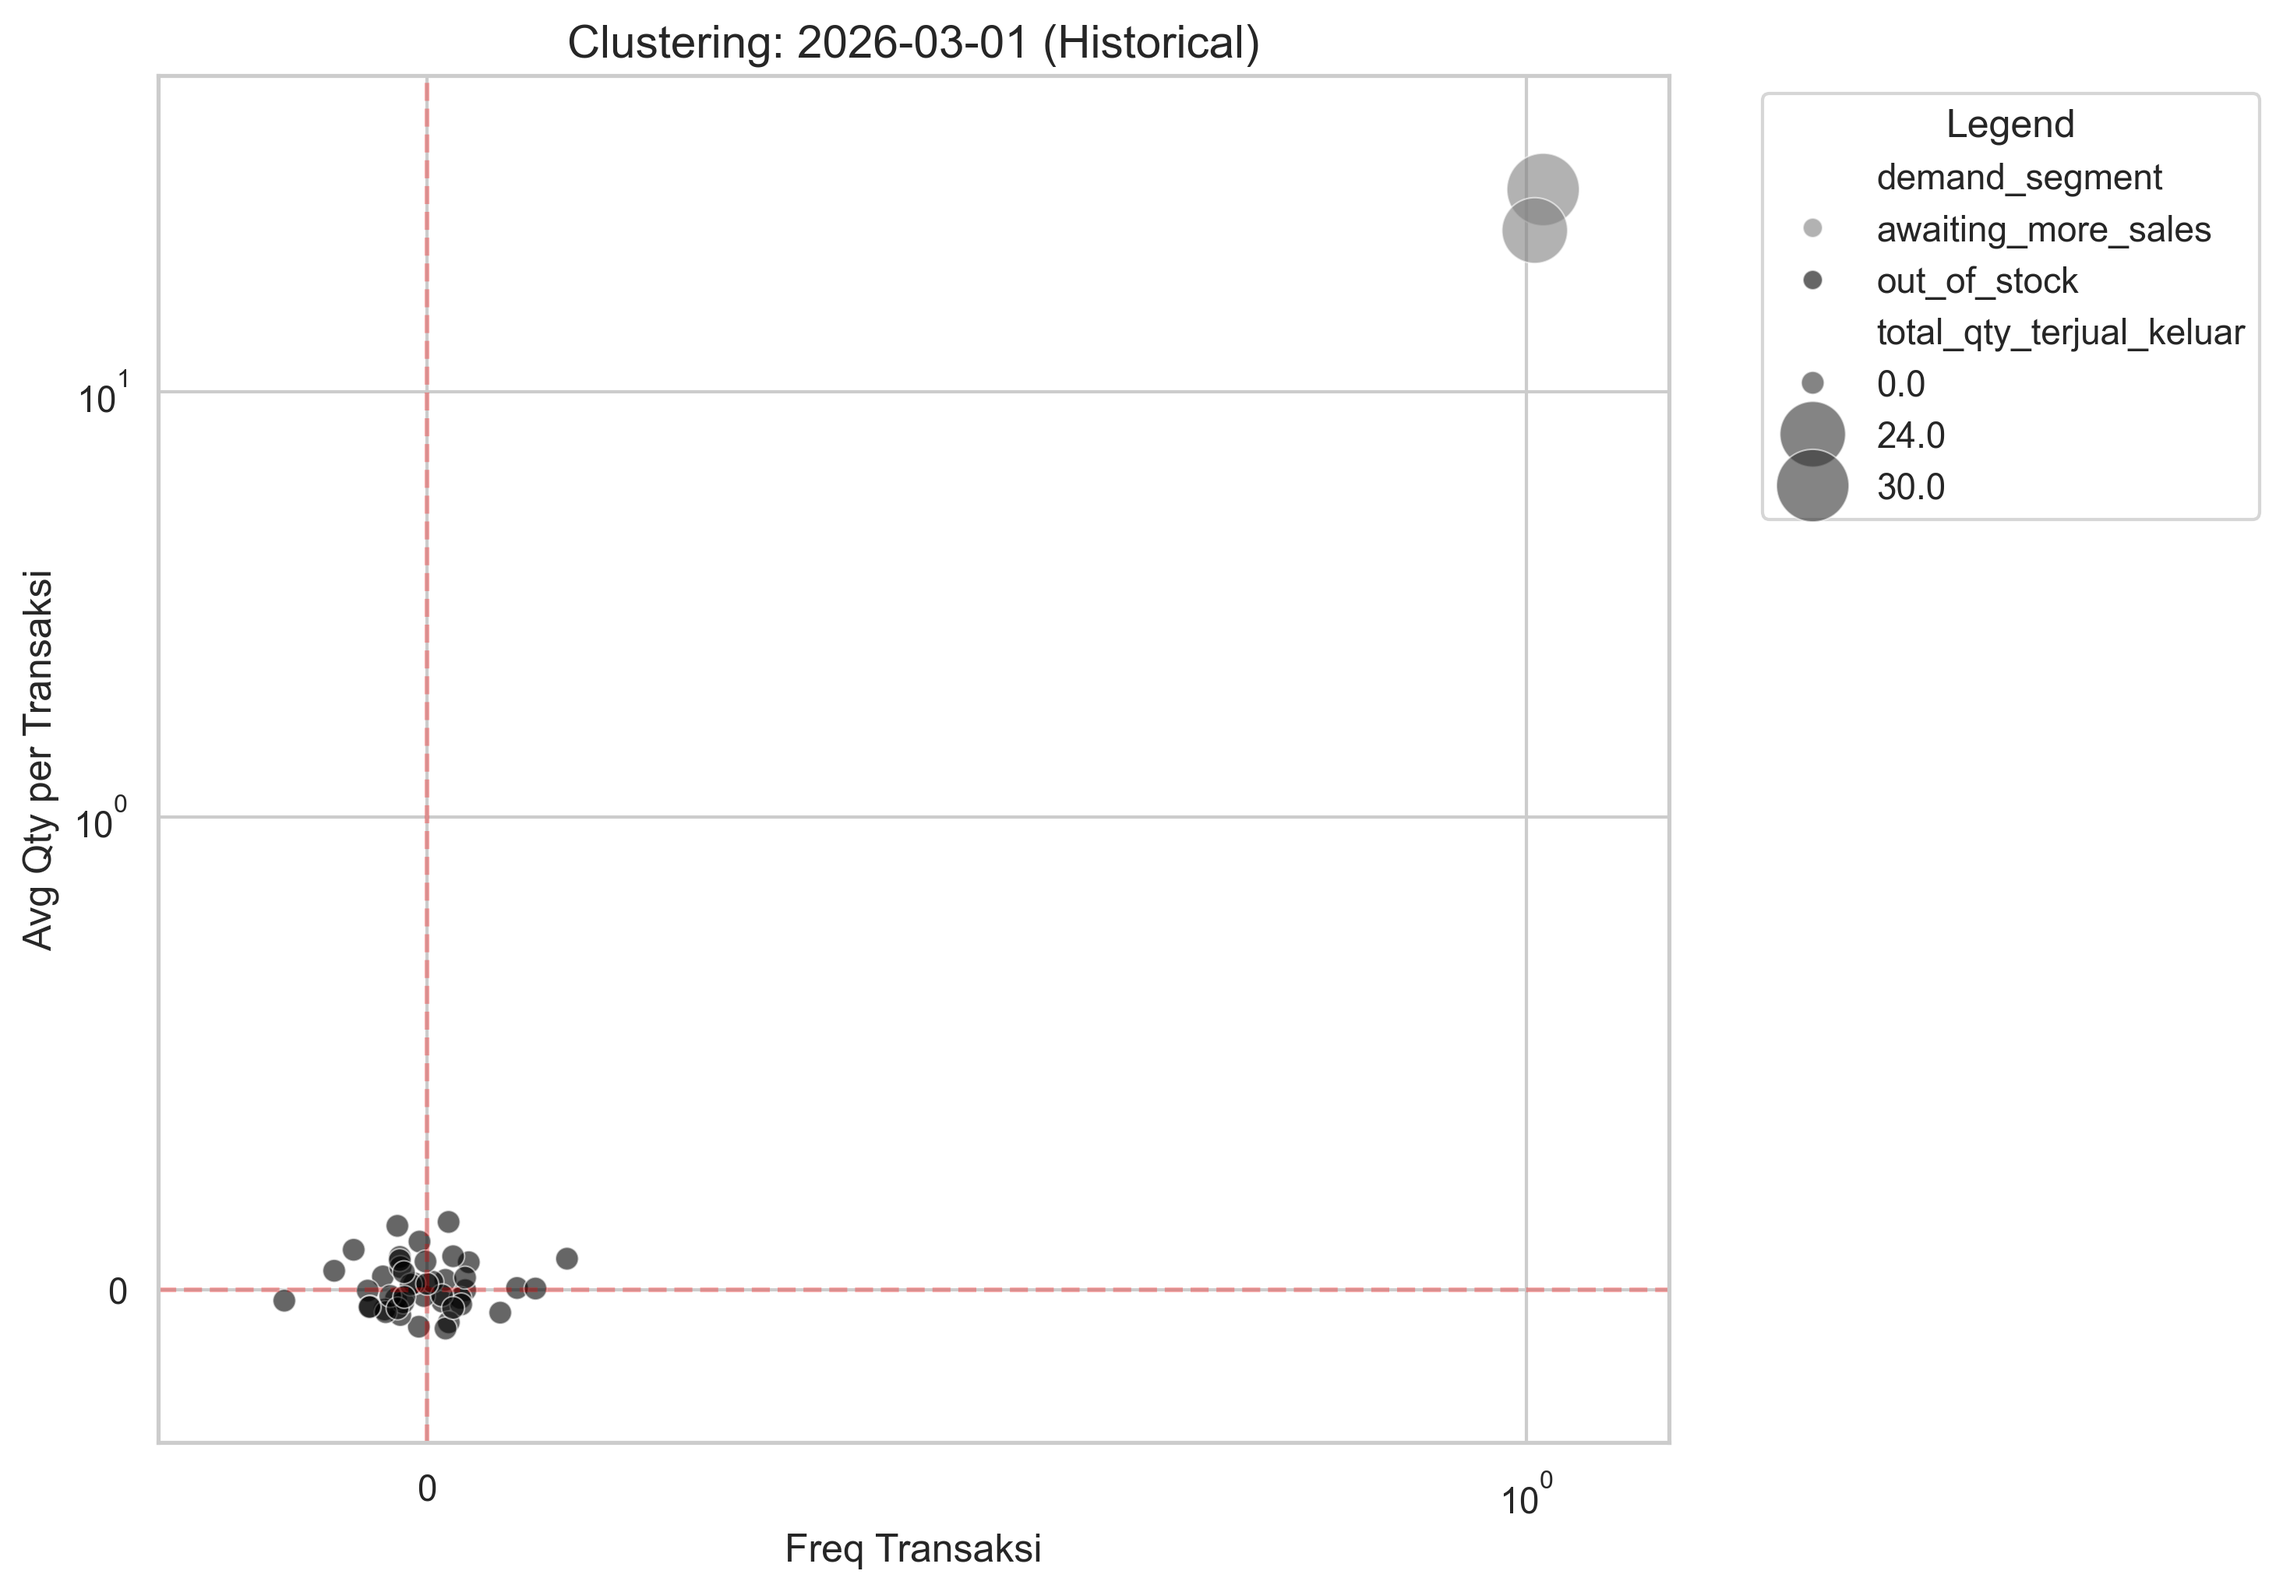
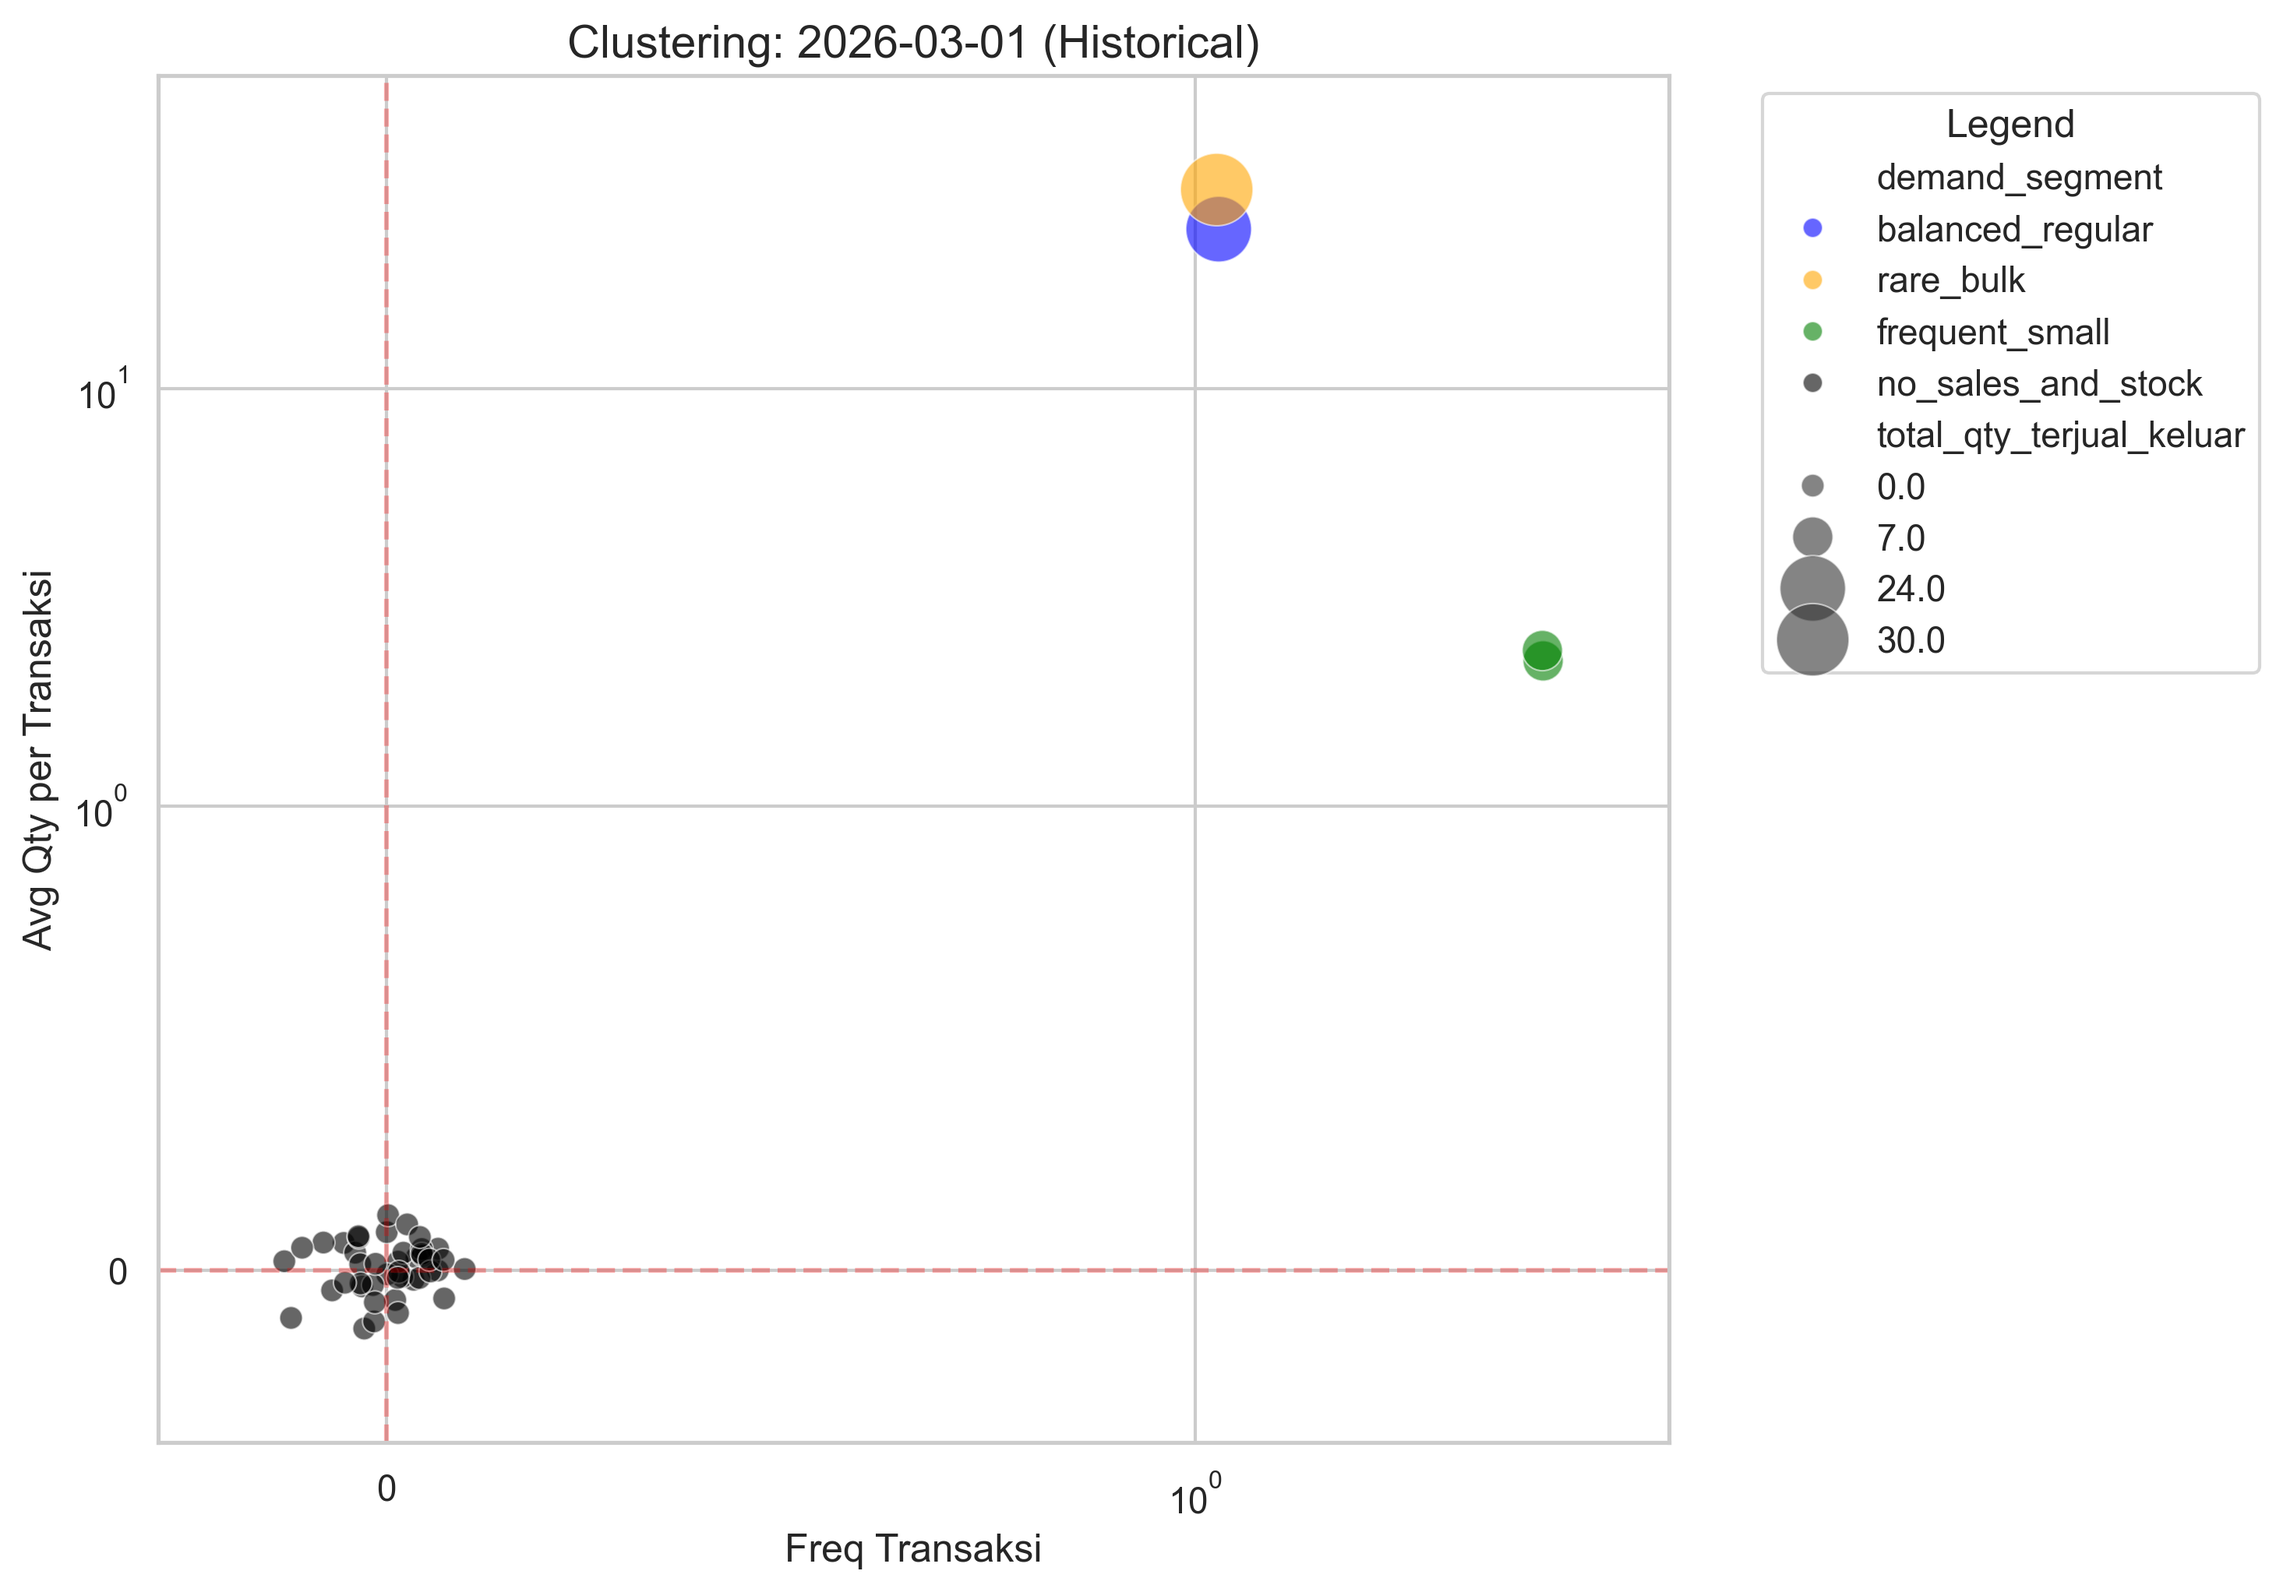
revisi clustering

diff --git a/scripts_python/kmeans_cluster_movement_bulanan.py b/scripts_python/kmeans_cluster_movement_bulanan.py
@@ -75,17 +75,17 @@ for bulan, group in df.groupby("snapshot_date"):
     temp_group = group.copy()
 
     # Pisahkan produk aktif dan mati
+    # 1. Produk dengan transaksi (Masuk Clustering)
     active_mask = temp_group["frekuensi_transaksi"] > 0
     df_active = temp_group[active_mask].copy()
 
-    oos_mask = (~active_mask) & (temp_group["stok_akhir"] <= 0)
-    df_oos = temp_group[oos_mask].copy()
-
+    # 2. Produk TANPA transaksi tapi ADA STOK (Ini Slow Moving asli Anda)
     dead_mask = (~active_mask) & (temp_group["stok_akhir"] > 0)
     df_dead = temp_group[dead_mask].copy()
-    # Saran Perubahan di Python
-# Produk benar-benar 'dead' jika tidak ada transaksi DAN tidak ada stok
-    # df_dead = temp_group[(temp_group["frekuensi_transaksi"] == 0) & (temp_group["jeda_hari_dari_transaksi_terakhir"] > 90)]
+
+    # 3. Produk TANPA transaksi dan TANPA STOK (Out of Stock / Inactive)
+    oos_mask = (~active_mask) & (temp_group["stok_akhir"] <= 0)
+    df_oos = temp_group[oos_mask].copy()
 
     if len(df_active) >= 3:
         X = df_active[feature_cols].fillna(0.0)
@@ -113,7 +113,7 @@ for bulan, group in df.groupby("snapshot_date"):
     
     # Beri label untuk kategori non-aktif
     df_oos["cluster_id"] = -3
-    df_oos["demand_segment"] = "out_of_stock"
+    df_oos["demand_segment"] = "no_sales_and_stock"
 
     # produk mati
     df_dead["cluster_id"] = -2  # ID khusus untuk dead stock
@@ -160,7 +160,7 @@ def save_multi_period_plots(df_to_plot):
             "balanced_regular": "blue",
             "dead_stock": "red", # Warna kontras untuk barang mati
             "awaiting_more_sales": "grey",
-            "out_of_stock": "black"
+            "no_sales_and_stock": "black"
         }
         
         # 2. Gambar scatter plot
